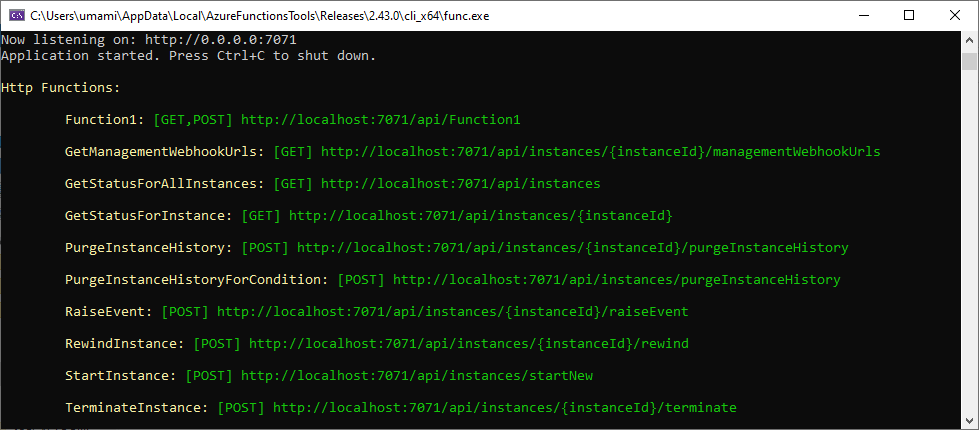
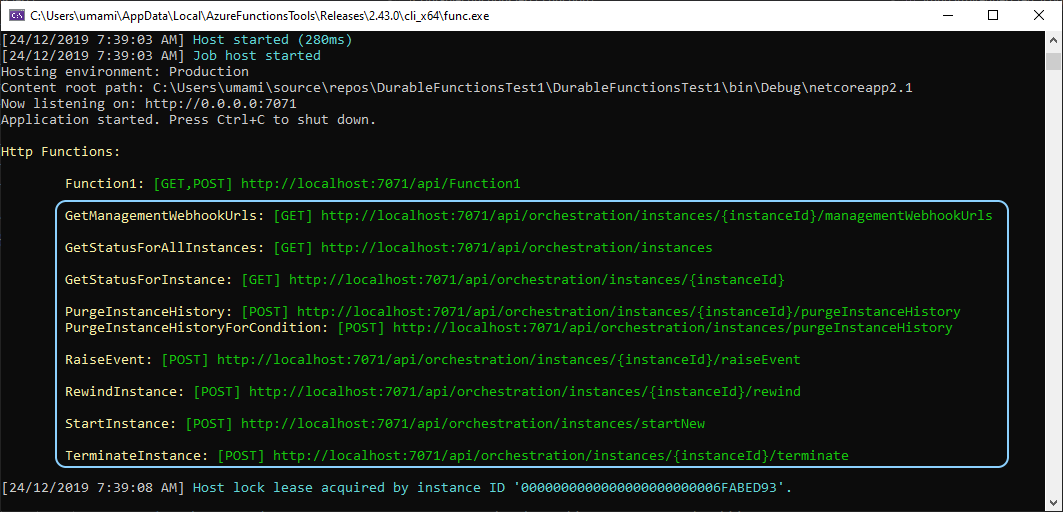
Add documentation of endpoints

Changed region(s): [[0.0306, 0.3326, 0.9499, 0.6651], [0.0, 0.0, 1.0, 1.0], [0.0, 0.6953, 0.9499, 0.9674]]

diff --git a/docs/documentation.md b/docs/documentation.md
@@ -1,0 +1,328 @@
+# Documentation
+
+Refer to the [Microsoft documentation](https://docs.microsoft.com/en-us/azure/azure-functions/durable/durable-functions-instance-management) for more information about how the management functions work.
+
+### Table of Contents
+ - [Start New Instance](#startnewinstance)  
+ - [Query instances](#queryinstances)  
+ - [Query all instances](#queryallinstances)  
+ - [Terminate instances](#terminateinstances)  
+ - [Send events to instances](#sendeventstoinstances)  
+ - [Retrieve HTTP management webhook URLs](#retrievewebhookurls)  
+ - [Rewind instances (preview)](#rewindinstances)  
+ - [Purge instance history](#purgeinstancehistory)  
+
+---
+<a name="startnewinstance"/>
+
+## Start new instance
+
+Starts a new instance. Internally, this method enqueues a message into the control queue, which then triggers the start of a function with the specified name that uses the orchestration trigger binding..
+
+`[POST] http://localhost:7071/api/orchestration/instances/startNew`
+
+**Query parameters**
+ - OrchestratorFunctionName (**Required**): The name of the orchestrator function to start.
+ - InstanceId (**Optional**): The ID to use for the new orchestration instance.  If not supplied, a random unique value will be automatically chosen.
+ 
+**Payload**
+
+Payload is any JSON body you want to pass into the orchestration instance.
+
+**Response**
+```
+200 OK
+
+{
+   "instanceId": "51b7871c-4c71-4ad9-bb6e-e95567eda15b"
+}
+```
+ - **instanceId**: The ID of the new orchestration instance.
+
+**Example**
+
+```
+POST http://localhost:7071/api/orchestration/instances/startNew?orchestratorFunctionName=MyDurableFunction&instanceId=manualTrigger123
+
+Content-Type: application/json
+
+Body:
+{
+   "id": 1,
+   "name": "Fred",
+   "description": "This is the input which is sent to the durable function"
+}
+```
+
+**Notes**
+
+From [Microsoft's documentation](https://docs.microsoft.com/en-us/azure/azure-functions/durable/durable-functions-instance-management#start-instances) regarding specifying instance IDs:
+
+>*Use a random identifier for the instance ID. Random instance IDs help ensure an equal load distribution when you're scaling orchestrator functions across multiple VMs. The proper time to use non-random instance IDs is when the ID must come from an external source, or when you're implementing the singleton orchestrator pattern.*
+
+
+<a name="queryinstances" />
+
+## Query instances
+
+Returns information about the status of an orchestration instance.
+
+`[GET] http://localhost:7071/api/orchestration/instances/{instanceId}`
+
+**Query parameters**
+ - showHistory (**Optional**): If set to true, the response contains the execution history.
+ - showHistoryOutput (**Optional**): If set to true, the execution history contains activity outputs.
+ - showInput (**Optional**): If set to false, the response won't contain the input of the function. The default value is true.
+
+**Response**
+```
+200 OK
+
+{
+    "name": "YourFunction",
+    "instanceId": "51b7871c-4c71-4ad9-bb6e-e95567eda15b",
+    "createdTime": "2019-11-13T09:30:10.000Z",
+    "lastUpdatedTime": "2019-11-13T09:37:00.000Z",
+    "input": {},
+    "output": {},
+    "runtimeStatus": "Running",
+    "customStatus": {},
+    "history": []
+}
+```
+
+ - **Name**: The name of the orchestrator function.
+ - **InstanceId**: The instance ID of the orchestration (should be the same as the instanceId input).
+ - **CreatedTime**: The time at which the orchestrator function started running.
+ - **LastUpdatedTime**: The time at which the orchestration last checkpointed.
+ - **Input**: The input of the function as a JSON value. This field isn't populated if showInput is false.
+ - **CustomStatus**: Custom orchestration status in JSON format.
+ - **Output**: The output of the function as a JSON value (if the function has completed). If the orchestrator function failed, this property includes the failure details. If the orchestrator function was terminated, this property includes the reason for the termination (if any).
+ - **RuntimeStatus**: One of the following values:
+   - **Pending**: The instance has been scheduled but has not yet started running.
+   - **Running**: The instance has started running.
+   - **Completed**: The instance has completed normally.
+   - **ContinuedAsNew**: The instance has restarted itself with a new history. This state is a transient state.
+   - **Failed**: The instance failed with an error.
+   - **Terminated**: The instance was stopped abruptly.
+ - **History**: The execution history of the orchestration. This field is only populated if showHistory is set to true.
+
+**Example**
+
+```
+GET http://localhost:7071/api/orchestration/instances/51b7871c-4c71-4ad9-bb6e-e95567eda15b?showHistory=true&showHistoryOutput=true&showInput=true
+```
+
+<a name="queryallinstances" />
+
+## Query all instances
+
+Query the statuses of all orchestration instances.
+
+`[GET] http://localhost:7071/api/orchestration/instances`
+
+**Query parameters**
+ - RuntimeStatus (**Optional**): A comma-delimited list of status to filter on.  Example: `runtimeStatus=Running,Completed`
+ - CreatedTimeFrom (**Optional**): A date/time string to filter from.  Example: `createdTimeFrom=2019-11-13T09:30:00.000Z`
+ - CreatedTimeTo (**Optional**): A date/time string to filter until.  Example: `createdTimeFrom=2020-11-13T09:30:00.000Z`
+ - TaskHubNames (**Optional**): A comma-delimited list of task hub names to filter on.
+ - PageSize (**Optional**): The maximum number of results to return per request.
+ - ContinuationToken (**Optional**): Retrieve a specific page of results.  Leave empty to retrieve the first page.
+ - InstanceIdPrefix (**Optional**): Filters the instances whose prefix matches this value.
+ - ShowInput (**Optional**): If set to truek, will include the orchestration inputs for each instance.
+
+**Response**
+```
+200 OK
+
+{
+    "durableOrchestrationState": [
+      {
+         "name": "YourFunction",
+         "instanceId": "51b7871c-4c71-4ad9-bb6e-e95567eda15b",
+         "createdTime": "2019-11-13T09:30:10.000Z",
+         "lastUpdatedTime": "2019-11-13T09:37:00.000Z",
+         "input": {},
+         "output": {},
+         "runtimeStatus": "Running",
+         "customStatus": {},
+         "history": []
+      }
+    ],
+    "continuationToken": "bnVsbA=="
+}
+```
+Each item in the durableOrchestrationState array follows the structure for [Query instances](#queryinstances) above.
+
+<a name="terminateinstances" />
+
+## Terminate instances
+
+Terminates a running instance.
+
+`[POST] http://localhost:7071/api/orchestration/instances/{instanceId}/terminate`
+
+**Query parameters**
+ - Reason (**Required**): A description of why the instance was terminated.
+<a name="sendeventstoinstances" />
+
+**Example**
+```
+POST http://localhost:7071/api/orchestration/instances/51b7871c-4c71-4ad9-bb6e-e95567eda15b/terminate?reason=Instance%20taking%20too%20long
+```
+
+**Notes**
+
+From [Microsoft's documentation](https://docs.microsoft.com/en-us/azure/azure-functions/durable/durable-functions-instance-management#terminate-instances) regarding when an instance is terminated:
+
+>*A terminated instance stops running as soon as it reaches the next await (.NET) or yield (JavaScript) point, or it terminates immediately if it's already on an await or yield.*
+
+## Send events to instances
+
+Sends an event notification to a running instance.
+
+`[POST] http://localhost:7071/api/orchestration/instances/{instanceId}/raiseEvent`
+
+**Query parameters**
+ - EventName (**Required**): The name of the event.
+ - TaskHubName (**Optional**): The TaskHubName of the orchestration that will handle the event.
+ - ConnectionName (**Optional**): The name of the connection string associated with taskHubName.
+
+**Body**
+Contains the payload for the event being sent.
+
+**Response**
+
+```
+202 Accepted
+
+No body content
+```
+
+**Example**
+```
+POST http://localhost:7071/api/orchestration/instances/51b7871c-4c71-4ad9-bb6e-e95567eda15b/raiseEvent?eventName=MyEvent
+
+Content-Type: application/json
+
+Body:
+{
+   "id": 1,
+   "name": "Fred",
+   "description": "This is the payload that is sent to the event"
+}
+```
+
+<a name="retrievewebhookurls" />
+
+## Retrieve HTTP management webhook URLs
+
+Retrieve HTTP management webhook URLs that external systems can communicate with Durable Functions through.
+
+`[GET] http://localhost:7071/api/orchestration/instances/{instanceId}/managementWebhookUrls`
+
+**Response**
+```
+{
+    "id": "theInstanceId",
+    "statusQueryGetUri": "http://hostname/runtime/webhooks/durabletask/instances/51b7871c-4c71-4ad9-bb6e-e95567eda15b?taskHub=TestHubName&connection=Storage&code=base64encodedsecret",
+    "sendEventPostUri": "http://hostname/runtime/webhooks/durabletask/instances/51b7871c-4c71-4ad9-bb6e-e95567eda15b/raiseEvent/{eventName}?taskHub=TestHubName&connection=Storage&code=base64encodedsecret",
+    "terminatePostUri": "http://hostname/runtime/webhooks/durabletask/instances/51b7871c-4c71-4ad9-bb6e-e95567eda15b/terminate?reason={text}&taskHub=TestHubName&connection=Storage&code=base64encodedsecret",
+    "rewindPostUri": "http://hostname/runtime/webhooks/durabletask/instances/51b7871c-4c71-4ad9-bb6e-e95567eda15b/rewind?reason={text}&taskHub=TestHubName&connection=Storage&code=base64encodedsecret",
+    "purgeHistoryDeleteUri": "http://hostname/runtime/webhooks/durabletask/instances/51b7871c-4c71-4ad9-bb6e-e95567eda15b?taskHub=TestHubName&connection=Storage&code=base64encodedsecret"
+}
+```
+
+ - **Id**: The instance ID of the orchestration (should be the same as the InstanceId input).
+ - **StatusQueryGetUri**: The status URL of the orchestration instance.
+ - **SendEventPostUri**: The "raise event" URL of the orchestration instance.
+ - **TerminatePostUri**: The "terminate" URL of the orchestration instance.
+ - **PurgeHistoryDeleteUri**: The "purge history" URL of the orchestration instance.
+
+
+<a name="rewindinstances" />
+
+## Rewind instance (Preview)
+
+Rewinds a failed instance to a previously healthy state, by putting the orchestration back into the Running state. This method will also rerun the activity or sub-orchestration execution failures that caused the orchestration failure.
+
+`[POST] http://localhost:7071/api/orchestration/instances/{instanceId}/rewind`
+
+**Query parameters**
+ - Reason (**Required**): A description of the reason for rewinding the instance.
+
+**Response**
+```
+202 Accepted
+
+No body content
+```
+
+**Example**
+```
+POST http://localhost:7071/api/orchestration/instances/51b7871c-4c71-4ad9-bb6e-e95567eda15b/rewind?reason=Rollback%20due%20to%20failure
+```
+
+**Notes**
+
+From [Microsoft's documentation](https://docs.microsoft.com/en-us/azure/azure-functions/durable/durable-functions-instance-management#rewind-instances-preview) regarding rewinding:
+
+>*The rewind feature doesn't support rewinding orchestration instances that use durable timers.*
+
+<a name="purgeinstancehistory" />
+
+## Purge instance history
+
+Removes all the data associated with an orchestration.  There are two endpoints that can achive this - one to remove for a specific instance, and one to remove for multiple instances based on a set of filter conditions.
+
+### 1. Purge history for specific instance
+
+Removes all the data associated with a specific orchestration instance.
+
+`[POST] http://localhost:7071/api/orchestration/instances/{instanceId}/purgeInstanceHistory`
+
+**Response**
+```
+202 Accepted
+
+No body content
+```
+
+**Example**
+```
+POST http://localhost:7071/api/orchestration/instances/51b7871c-4c71-4ad9-bb6e-e95567eda15b/purgeInstanceHistory
+```
+
+**Notes**
+
+From [Microsoft's documentation](https://docs.microsoft.com/en-us/azure/azure-functions/durable/durable-functions-instance-management#purge-instance-history) regarding purging:
+
+>*For the purge history operation to succeed, the runtime status of the target instance must be Completed, Terminated, or Failed.*
+
+### 2. Purge history for multiple instances using a filter
+
+Removes all the data associated with orchestration instances that match specified criteria.
+
+`[POST] http://localhost:7071/api/orchestration/instances/purgeInstanceHistory`
+
+**Query parameters**
+ - CreatedTimeFrom (**Required**): A date/time string to filter from.  Example: `createdTimeFrom=2019-11-13T09:30:00.000Z`
+ - CreatedTimeTo (**Optional**): A date/time string to filter to.  Example: `createdTimeTo=2020-11-13T09:30:00.000Z`
+ - RuntimeStatus (**Optional**): A comma-delimited list of status to filter on.  Example: `runtimeStatus=Completed,Terminated,Failed`
+
+ **Response**
+```
+202 Accepted
+
+No body content
+```
+
+**Example**
+```
+POST http://localhost:7071/api/orchestration/instances/purgeInstanceHistory?createdTimeFrom=2019-11-13T09:30:00.000Z&createdTimeTo=2020-11-13T09:30:00.000Z&runtimeStatus=Completed,Terminated,Failed
+```
+**Notes**
+
+From [Microsoft's documentation](https://docs.microsoft.com/en-us/azure/azure-functions/durable/durable-functions-instance-management#purge-instance-history) regarding purging:
+
+>*For the purge history operation to succeed, the runtime status of the target instance must be Completed, Terminated, or Failed.*
